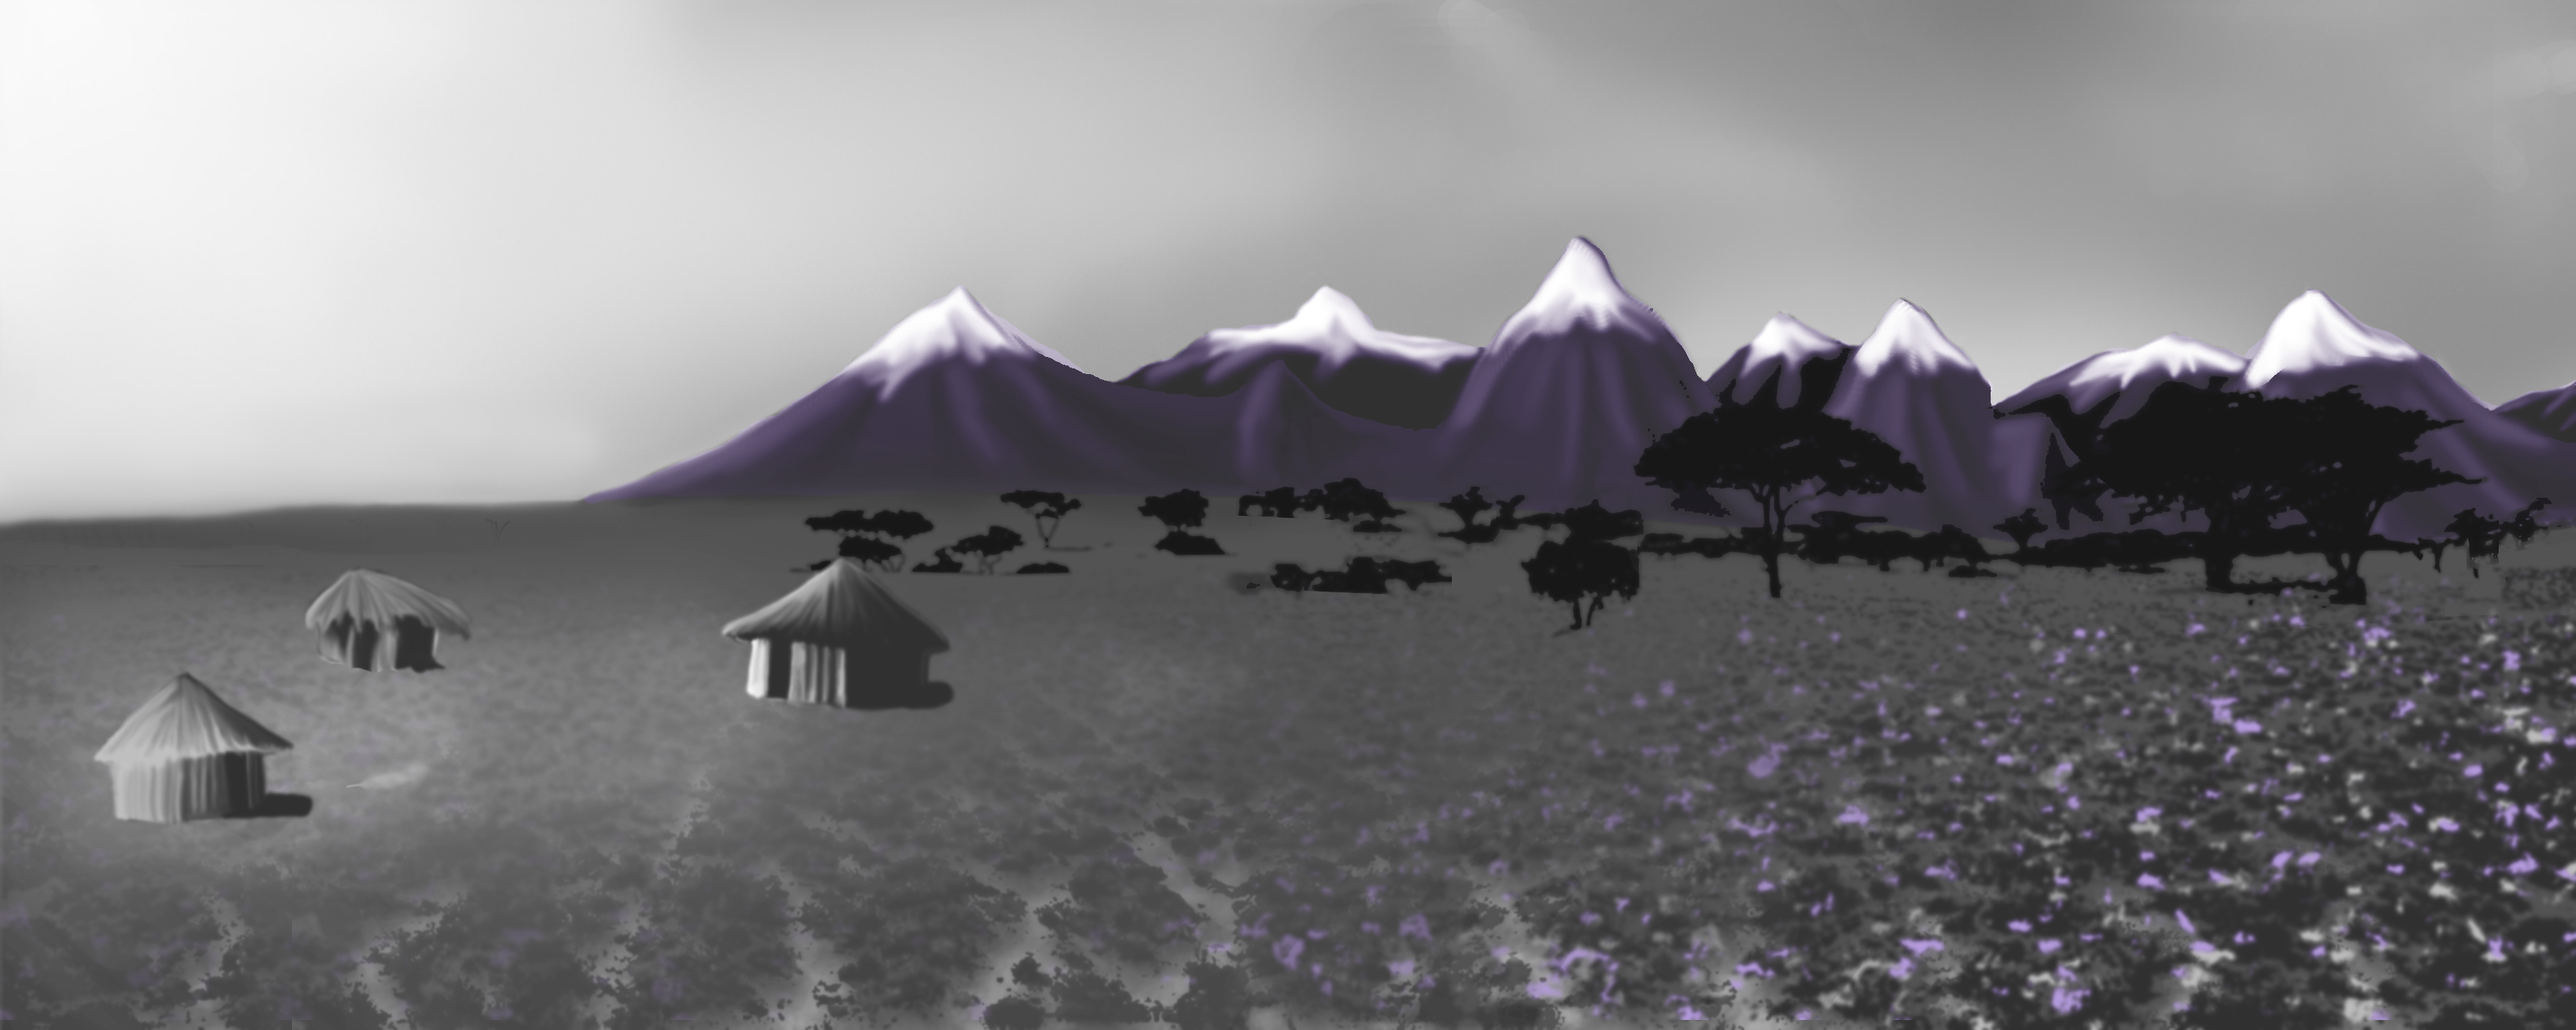
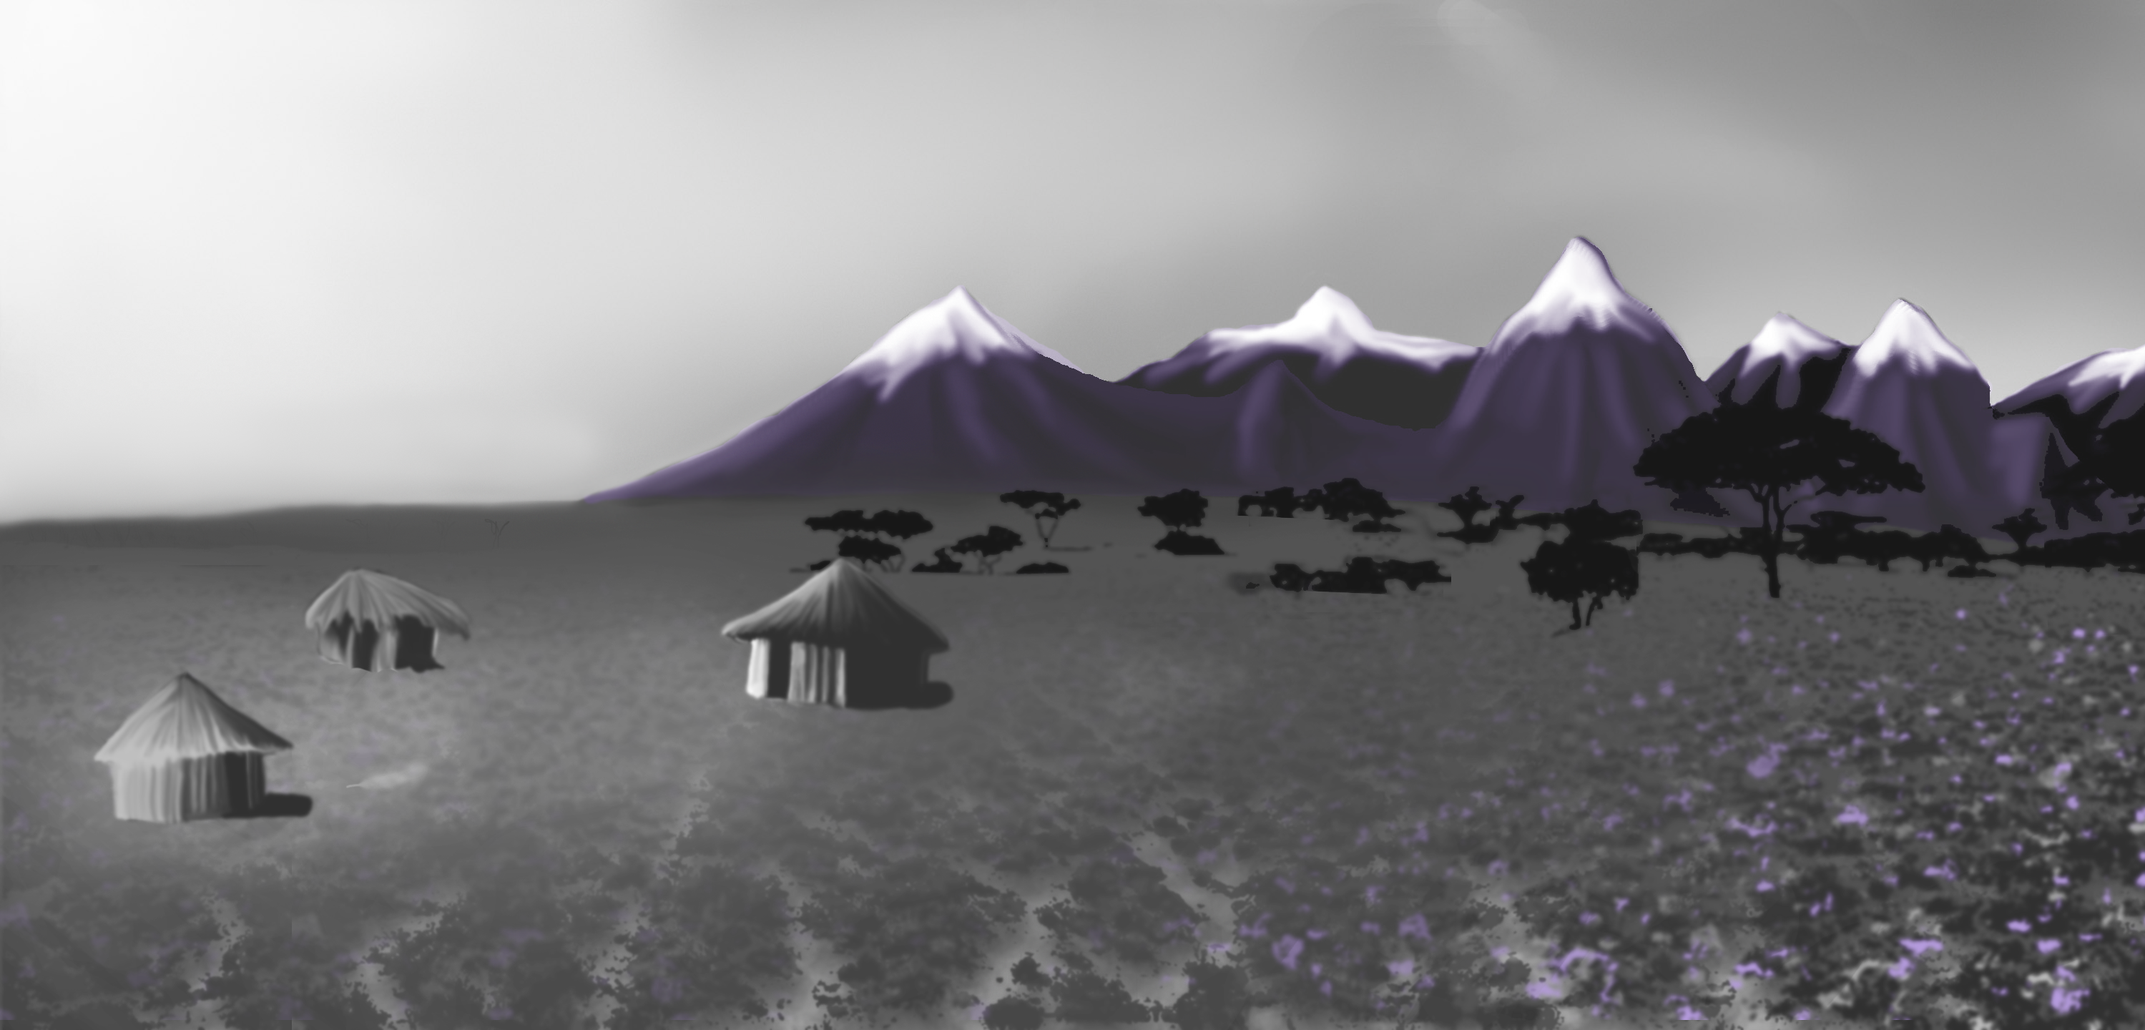
Changes to background system to adjust scaling of images. Some cropped backgrounds.

diff --git a/RunningGame/Level.cs b/RunningGame/Level.cs
@@ -487,13 +487,34 @@ namespace RunningGame
 
         public BackgroundEntity getMyBackgroundEntity()
         {
-            BackgroundEntity bkgEnt = new BackgroundEntity(this, 0, 0);
-            DrawComponent drawComp = (DrawComponent)bkgEnt.getComponent(GlobalVars.DRAW_COMPONENT_NAME);
-            PositionComponent posComp = (PositionComponent)bkgEnt.getComponent(GlobalVars.POSITION_COMPONENT_NAME);
-
+           
             string fullImageAddress = "RunningGame.Resources.Artwork.Background.Bkg11.png";
             string imageStub = "Artwork.Background.Bkg";
 
+            Bitmap tempImg = getBkgImg();
+            float newWidth = tempImg.Width;
+            float newHeight = tempImg.Height;
+
+            float scaleFactor = 1.1f;
+
+            while (newWidth / scaleFactor > levelWidth || newHeight / scaleFactor > levelHeight)
+            {
+                newWidth /= scaleFactor;
+                newHeight /= scaleFactor;
+            }
+
+            while (newWidth < levelWidth || newHeight < levelHeight)
+            {
+                newWidth *= scaleFactor;
+                newHeight *= scaleFactor;
+            }
+
+            BackgroundEntity bkgEnt = new BackgroundEntity(this, 0, 0, newWidth, newHeight);
+            DrawComponent drawComp = (DrawComponent)bkgEnt.getComponent(GlobalVars.DRAW_COMPONENT_NAME);
+            PositionComponent posComp = (PositionComponent)bkgEnt.getComponent(GlobalVars.POSITION_COMPONENT_NAME);
+
+
+            /*
             //Static Background
             if (sysManager.bkgPosSystem.scrollType == 0)
             {
@@ -546,6 +567,7 @@ namespace RunningGame
                 drawComp.resizeImages((int)newWidth, (int)newHeight);
                 getMovementSystem().changePosition(posComp, newWidth / 2, newHeight / 2, false);
             }
+             * */
             /*
             //Proportion Scrolling
             if (sysManager.bkgPosSystem.scrollType == 1 || sysManager.bkgPosSystem.scrollType == 2)

diff --git a/RunningGame/Entities/BackgroundEntity.cs b/RunningGame/Entities/BackgroundEntity.cs
@@ -27,7 +27,22 @@ namespace RunningGame.Entities
 
             //Add the components.
             //Leave this for all entities.
-            addMyComponents(x, y);
+            addMyComponents(x, y, defaultWidth, defaultHeight);
+        }
+        public BackgroundEntity(Level level, float x, float y, float w, float h)
+        {
+            //Set level.
+            //Leave for all entities
+            this.level = level;
+            defaultWidth = level.levelWidth;
+            defaultHeight = level.levelHeight;
+            //Refers back to a class in the super Entity.
+            //Leave this for all entities.
+            initializeEntity(new Random().Next(Int32.MinValue, Int32.MaxValue), level);
+
+            //Add the components.
+            //Leave this for all entities.
+            addMyComponents(x, y, w, h);
         }
         public BackgroundEntity(Level level, int id, float x, float y)
         {
@@ -42,7 +57,7 @@ namespace RunningGame.Entities
 
             //Add the components.
             //Leave this for all entities.
-            addMyComponents(x, y);
+            addMyComponents(x, y, defaultWidth, defaultHeight);
         }
 
 
@@ -50,11 +65,11 @@ namespace RunningGame.Entities
 
         //Here's where you add all the components the entity has.
         //You can just uncomment the ones you want.
-        public void addMyComponents(float x, float y)
+        public void addMyComponents(float x, float y, float w, float h)
         {
             /*POSITION COMPONENT
              */
-            addComponent(new PositionComponent(x, y, defaultWidth, defaultHeight, this));
+            addComponent(new PositionComponent(x, y, w, h, this));
             
             /*DRAW COMPONENT
              */
